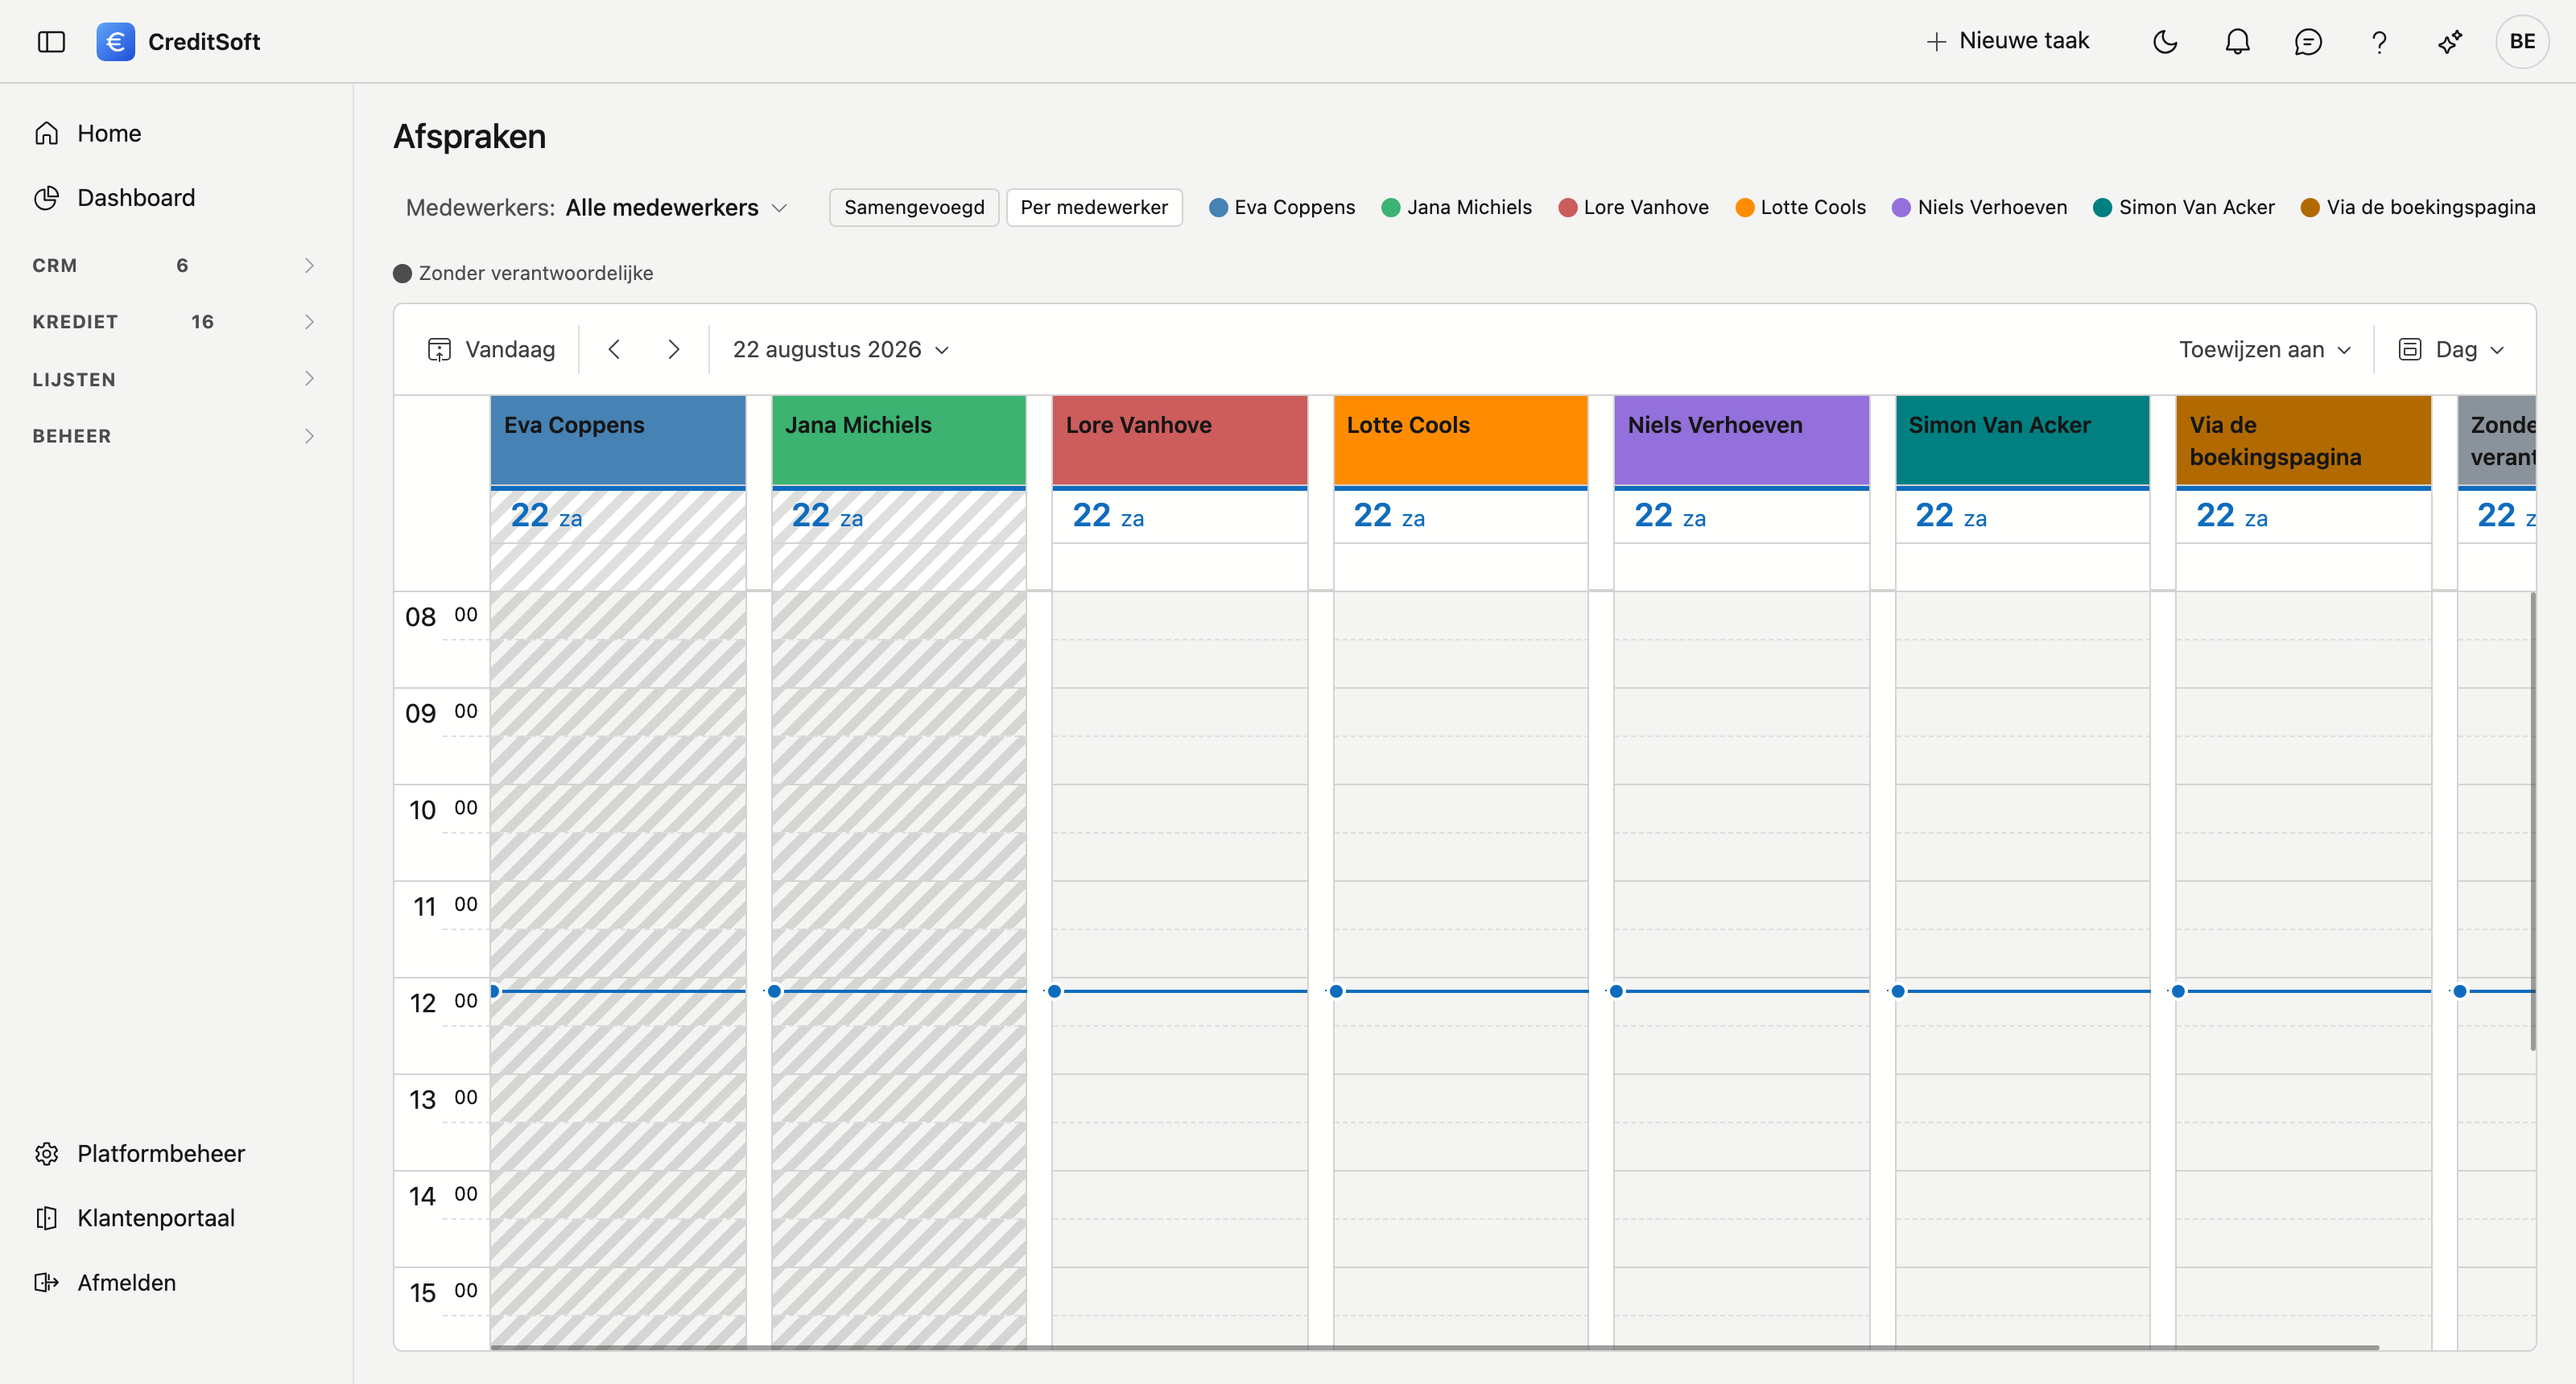
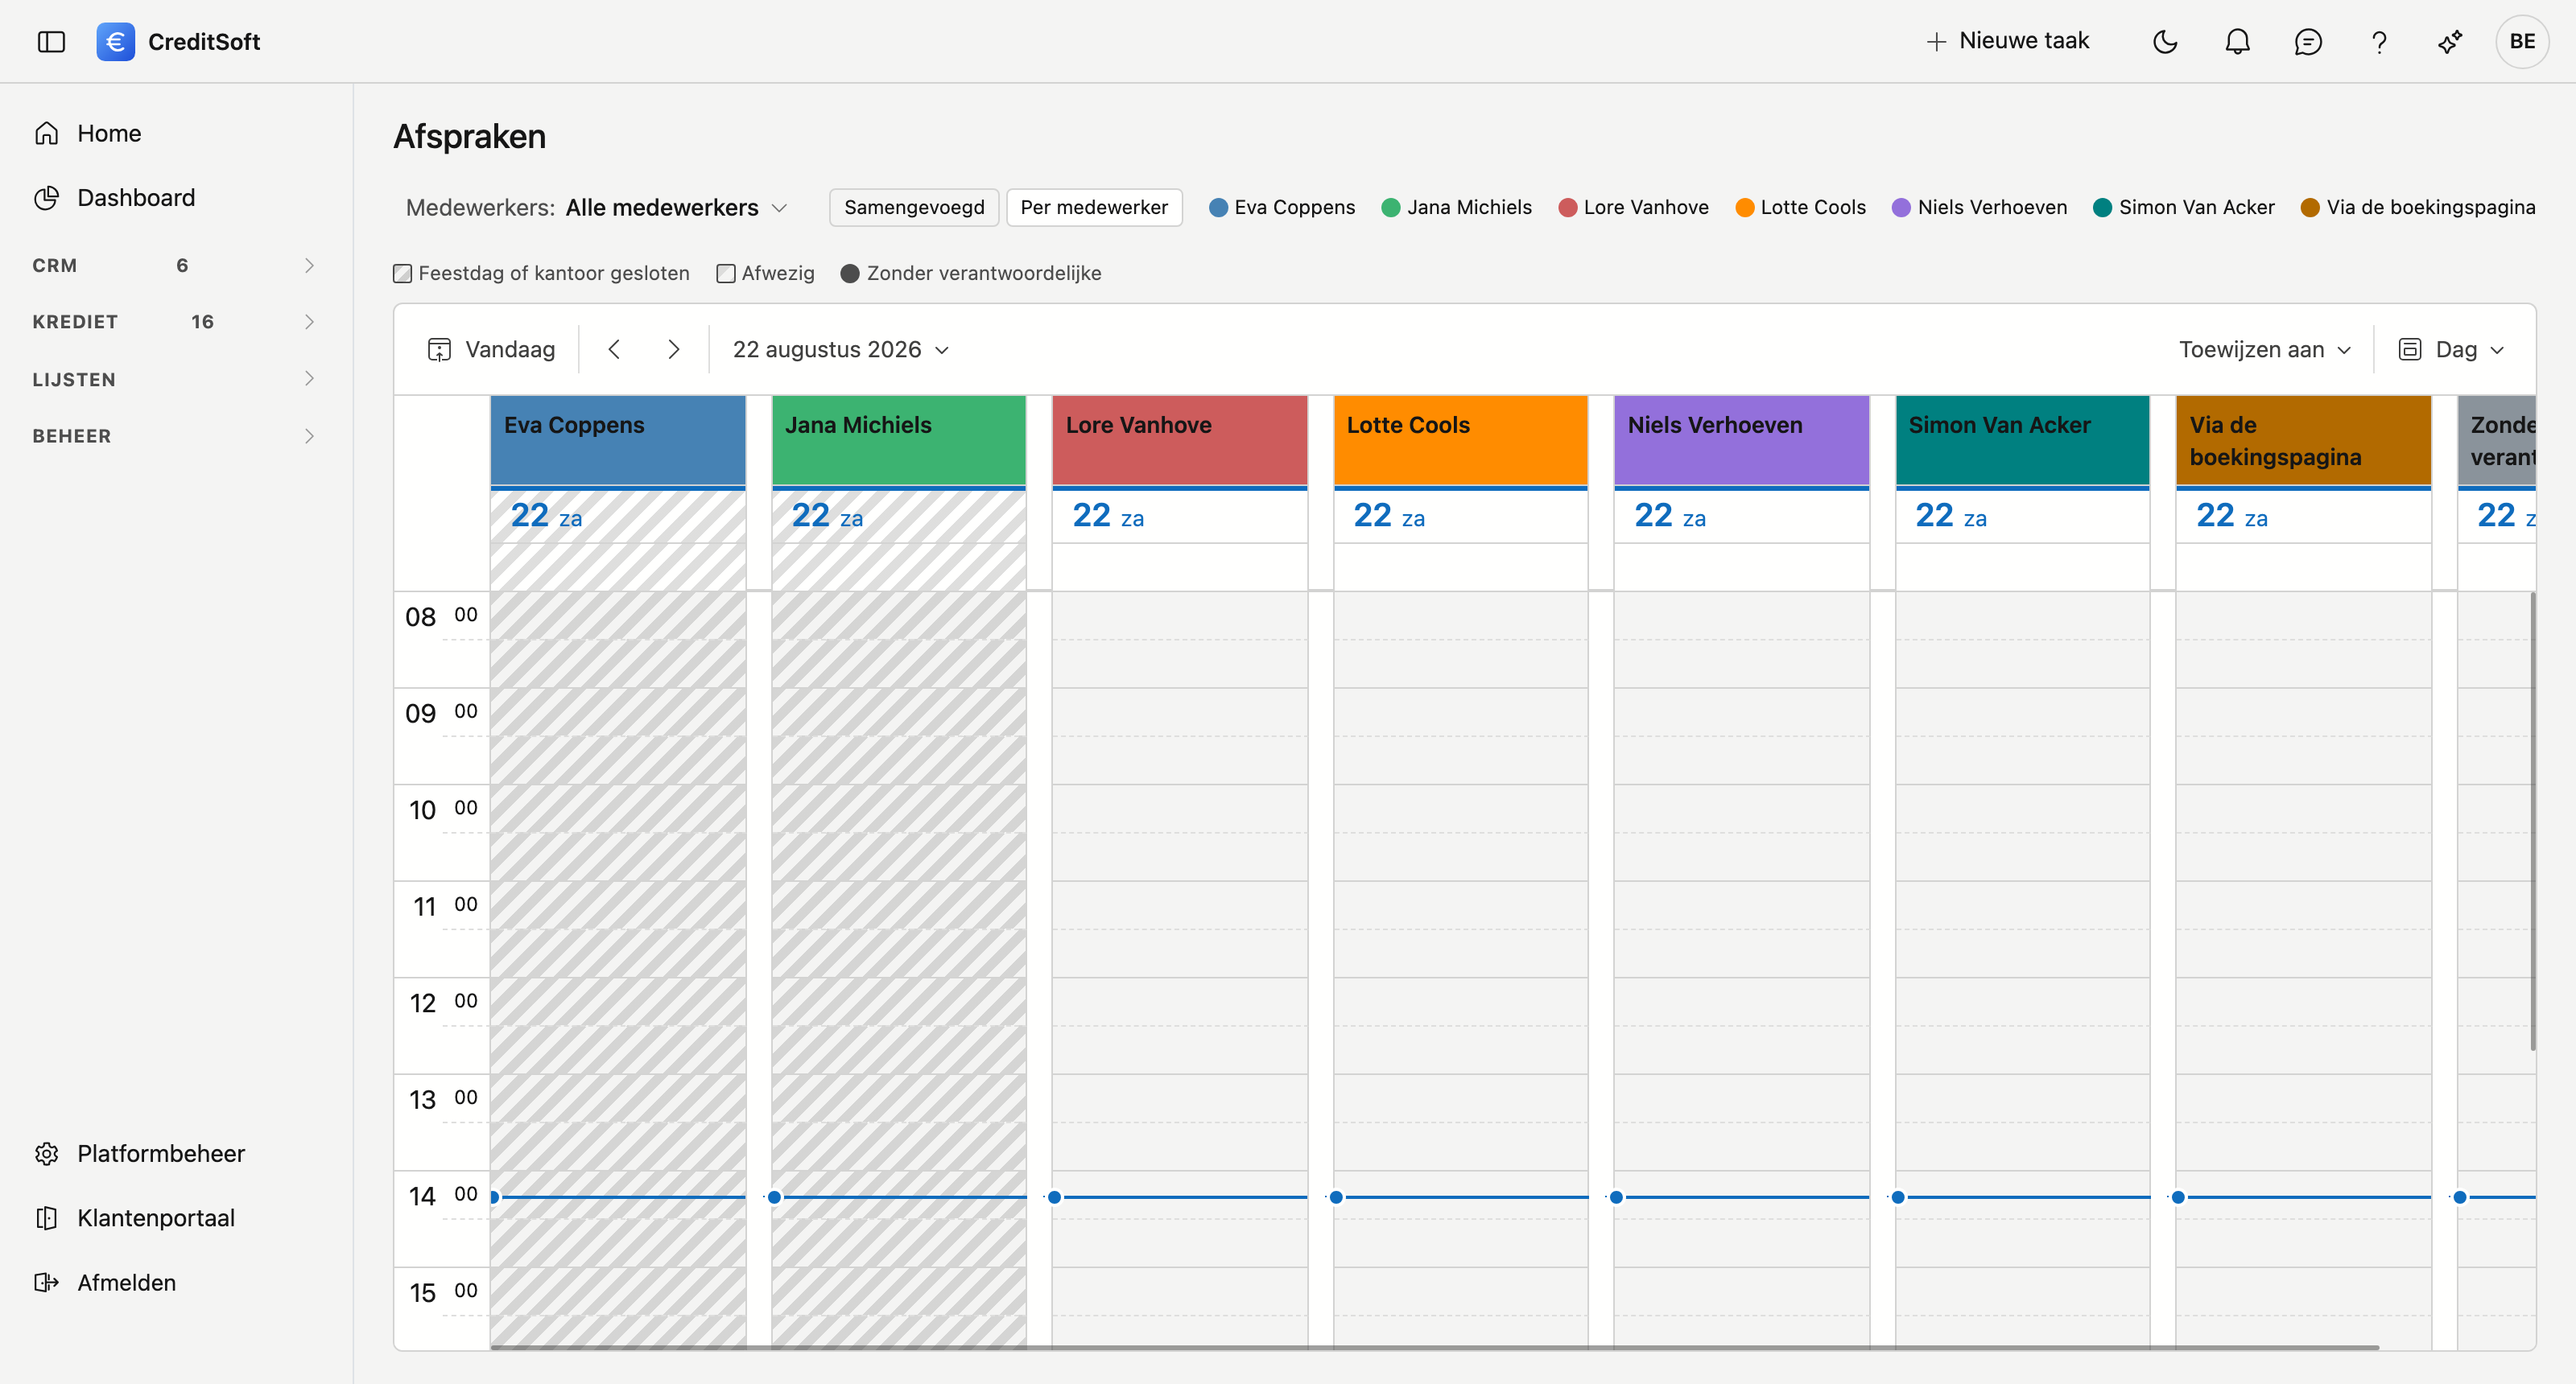
De feestdagen staan er nu echt, dus de handleiding moet dat ook zeggen
De pagina zei "die komen centraal en verschijnen vanzelf" — geschreven toen de client er nog niet
was. Sinds AppKit 0.258.0 haalt de agenda ze op bij ADM One en arceert ze net als een sluitingsdag.
De tekst zegt dat nu, met erbij dat drie van de tien aan Pasen hangen en dus elk jaar verspringen —
ook dat gebeurt zonder dat iemand iets doet.

De beelden hernomen: de legende draagt nu twee vierkantjes (feestdag/kantoor gesloten tegenover
persoonlijk afwezig) die er bij het vorige schot nog niet waren.

diff --git a/docs/beheer/afwezigheden.md b/docs/beheer/afwezigheden.md
@@ -41,8 +41,9 @@ De **nota** is vrij en optioneel — handig voor "bereikbaar per mail" of "verva
 
 ## Wettelijke feestdagen hoeft u niet in te voeren
 
-Nieuwjaar, Pasen, 21 juli en de andere zijn voor elk kantoor gelijk. Die komen centraal en verschijnen vanzelf;
-u hoeft er niets voor te doen en u kunt ze hier ook niet aanpassen.
+Nieuwjaar, Pasen, 21 juli en de andere zijn voor elk kantoor gelijk. **Ze staan er al** — de agenda arceert ze
+net als een sluitingsdag, en ze schuiven elk jaar vanzelf mee. Drie ervan hangen aan Pasen en verspringen dus
+per jaar; ook dat gebeurt zonder dat u er iets voor doet. U kunt ze hier niet aanpassen, en dat hoeft ook niet.
 
 Wat u hier wél zet, is wat **uw** kantoor eigen is: een brugdag na Hemelvaart, de week tussen Kerst en
 Nieuwjaar, bouwverlof.
